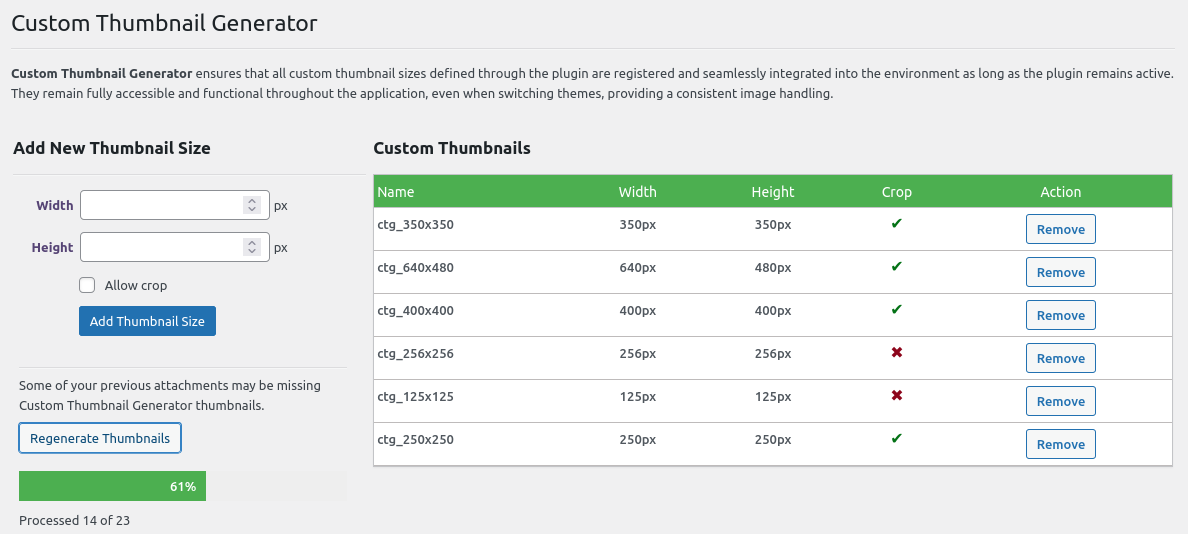
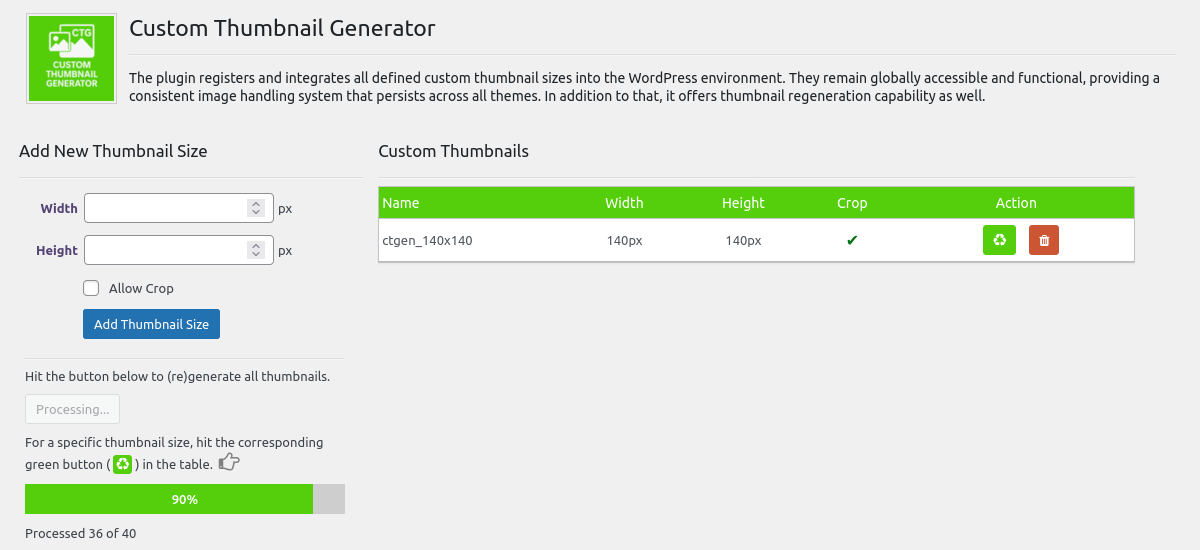
Auto version selection. Readme updated.

diff --git a/includes/init.php b/includes/init.php
@@ -3,27 +3,29 @@
  * Plugin initialization
  */
 
- define( 'CTGEN_PLUGIN_PATH', plugin_dir_path( __FILE__ ) );
- define( 'CTGEN_PLUGIN_URL', plugin_dir_url( __FILE__ ) );
- define( 'CTGEN_TEMPLATE_DIR', plugin_dir_path( __DIR__ ) . 'templates/' );
- define( 'CTGEN_PLUGIN_DIR', plugin_dir_url( __DIR__ ) );
+ if( ! defined( 'CTGEN_PLUGIN_PATH' ) ) define( 'CTGEN_PLUGIN_PATH', plugin_dir_path( __FILE__ ) );
+ if( ! defined( 'CTGEN_PLUGIN_URL' ) ) define( 'CTGEN_PLUGIN_URL', plugin_dir_url( __FILE__ ) );
+ if( ! defined( 'CTGEN_TEMPLATE_DIR' ) ) define( 'CTGEN_TEMPLATE_DIR', plugin_dir_path( __DIR__ ) . 'templates/' );
+ if( ! defined( 'CTGEN_PLUGIN_DIR' ) ) define( 'CTGEN_PLUGIN_DIR', plugin_dir_url( __DIR__ ) );
 
- define( 'WP_NATIVE_THUMB_SIZES', [ 'thumbnail', 'medium', 'medium_large', 'large' ] );
+ if( ! defined( 'CTGEN_NATIVE_THUMB_SIZES' ) ) define( 'CTGEN_NATIVE_THUMB_SIZES', [ 'thumbnail', 'medium', 'medium_large', 'large' ] );
 
- define( 'CTGEN_LOGO', CTGEN_PLUGIN_DIR . 'assets/images/icon-80x80.png' );
+ if( ! defined( 'CTGEN_LOGO' ) ) define( 'CTGEN_LOGO', CTGEN_PLUGIN_DIR . 'assets/images/icon-80x80.png' );
 
- define( 'ALLOWED_TAGS', array(
-  'form'     => [ 'action' => [], 'method' => [], 'id' => [], 'class' => [] ],
-  'input'    => [ 'type' => [], 'name' => [], 'value' => [], 'checked' => [], 'id' => [], 'class' => [] ],
-  'select'   => [ 'name' => [], 'id' => [], 'class' => [] ],
-  'option'   => [ 'value' => [], 'selected' => [] ],
-  'textarea' => [ 'name' => [], 'id' => [], 'class' => [] ],
-  'label'    => [ 'for' => [], 'class' => [] ],
-  'div'      => [ 'class' => [], 'id' => [] ],
-  'span'     => [ 'class' => [] ],
-  'p'        => [],
-  'button'   => [ 'type' => [], 'class' => [], 'name' => [], 'value' => [] ]
- ) );
+ if( ! defined( 'CTGEN_ALLOWED_TAGS' ) ) {
+  define( 'CTGEN_ALLOWED_TAGS', array(
+    'form'     => [ 'action' => [], 'method' => [], 'id' => [], 'class' => [] ],
+    'input'    => [ 'type' => [], 'name' => [], 'value' => [], 'checked' => [], 'id' => [], 'class' => [] ],
+    'select'   => [ 'name' => [], 'id' => [], 'class' => [] ],
+    'option'   => [ 'value' => [], 'selected' => [] ],
+    'textarea' => [ 'name' => [], 'id' => [], 'class' => [] ],
+    'label'    => [ 'for' => [], 'class' => [] ],
+    'div'      => [ 'class' => [], 'id' => [] ],
+    'span'     => [ 'class' => [] ],
+    'p'        => [],
+    'button'   => [ 'type' => [], 'class' => [], 'name' => [], 'value' => [] ]
+  ) );
+ }
 
  require_once CTGEN_PLUGIN_PATH . 'settings-page.php';
  require_once CTGEN_PLUGIN_PATH . 'class-ctgen-functions.php';
@@ -43,7 +45,7 @@
     wp_enqueue_script(
       'ctgen-media-actions-script',
       CTGEN_PLUGIN_DIR . 'assets/js/ctgen-media-actions.min.js',
-      array( 'jquery' ), '1.0', true
+      array( 'jquery' ), CTGEN_PLUGIN_VERSION, true
     );
 
     /**
@@ -59,7 +61,7 @@
         'ctg-admin.css',
         CTGEN_PLUGIN_DIR .  'assets/css/ctgen-admin.min.css',
         null,
-        '1.0'
+        CTGEN_PLUGIN_VERSION
     );
 
     /** Enqueue FontSAwesome */

diff --git a/templates/ctgen-form.html.php b/templates/ctgen-form.html.php
@@ -7,7 +7,7 @@
             <h1>
                 <?php esc_html_e( 'Custom Thumbnail Generator', 'custom-thumbnail-generator' ); ?>
                 <hr />
-                <span><?php esc_html_e( 'The plugin registers and integrates all defined custom thumbnail sizes into the WordPress environment. These sizes remain globally accessible and functional, providing a consistent image handling system that persists across all themes.', 'custom-thumbnail-generator' ); ?></span>
+                <span><?php esc_html_e( 'The plugin registers and integrates all defined custom thumbnail sizes into the WordPress environment. They remain globally accessible and functional, providing a consistent image handling system that persists across all themes. In addition to that, it offers thumbnail regeneration capability as well.', 'custom-thumbnail-generator' ); ?></span>
             </h1>
             <p style="font-size:14px;">
                 

diff --git a/includes/class-ctgen-functions.php b/includes/class-ctgen-functions.php
@@ -72,7 +72,7 @@ class CTGEN_Functions {
 
     /** Display thumbnail source */
     private function ctgen_get_size_table_title( $slug ) {
-        if( in_array( $slug, WP_NATIVE_THUMB_SIZES ) ) {
+        if( in_array( $slug, CTGEN_NATIVE_THUMB_SIZES ) ) {
             $slug = wp_kses_post( "<span class='ctgen-image-size-register-by'>WordPress Core</span>" );
         } else {
             $slug = wp_kses_post( "<span class='ctgen-image-size-register-by'>" . wp_get_theme()->get( 'Name' ) ) . "</span>";

diff --git a/custom-thumbnail-generator.php b/custom-thumbnail-generator.php
@@ -15,6 +15,13 @@
 
  if( ! defined( 'ABSPATH' ) ) exit;
 
+ add_action( 'admin_init', function() {
+   if( ! defined( 'CTGEN_PLUGIN_VERSION' ) ) {
+      $plugin_data = get_plugin_data( __FILE__ );
+      define( 'CTGEN_PLUGIN_VERSION', $plugin_data[ 'Version' ] );
+   }
+ } );
+ 
  require_once plugin_dir_path( __FILE__ ) . 'includes/init.php';
 
  /**
